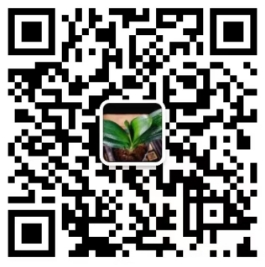
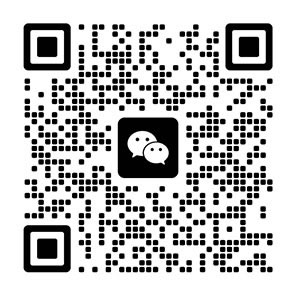
link edit

diff --git a/_includes/en_footer.html b/_includes/en_footer.html
@@ -4,47 +4,78 @@
             <div class="col-md-3">
                 <ul>
                     <li style="padding-bottom: 30px;">
-                        <a href="/"><img src="{{site.imgurl}}/assets/images/logo-1.png"  /></a>
+                        <a href="/"><img src="{{site.imgurl}}/assets/images/logo-1.png" /></a>
                     </li>
                     <li><span class="glyphicon glyphicon-phone-alt"></span>&nbsp;&nbsp;&nbsp;{{site.tel}}</li>
                     <li><span class="glyphicon glyphicon-phone-alt"></span>&nbsp;&nbsp;&nbsp;{{site.tel2}}</li>
                     <li><span class="glyphicon glyphicon-envelope"></span>&nbsp;&nbsp;&nbsp;{{site.email}}</li>
-                <ul>
-                
-                
-                
+                </ul>
+                <div class="row" style="text-align: center; margin-top: 30px;">
+                    <div class="col-md-5">
+                        <img src="{{site.imgurl}}/assets/images/erweima.jpg" class="img-thumbnail">
+                        微信
+                    </div>
+                    <div class="col-md-5">
+                        <img src="{{site.imgurl}}/assets/images/link-whatsapp.jpg" class="img-thumbnail">
+                        WhatsApp
+                    </div>
+                </div>
             </div>
             <div class="col-md-3" style="border-left: #f5f5f5 1px solid;padding-left: 80px;">
                 <ul>
                     <li class="title">GiamorProducts</li>
                     <li>
-                        <a href="{{site.baseurl}}/en/product/1.html#gaishu"><span  class="glyphicon glyphicon-play-circle"></span> Generality</a> <br>  
-                                <a href="{{site.baseurl}}/en/product/1.html#gongneng"><span  class="glyphicon glyphicon-play-circle"></span> FUNCTIONAL FABRIC</a> <br>  
-                                <a href="{{site.baseurl}}/en/product/1.html#junyong"><span  class="glyphicon glyphicon-play-circle"></span> Military special textiles</a> <br>  
-                                <a href="{{site.baseurl}}/en/product/1.html#xiaofang"><span  class="glyphicon glyphicon-play-circle"></span> Textile in the field of fire protection</a> <br>  
-                                <a href="{{site.baseurl}}/en/product/1.html#huwai"><span  class="glyphicon glyphicon-play-circle"></span> Outdoor Fabric </a> <br>
-                           
-                    </li>
-                    <li>
-                        <a href="{{site.baseurl}}/en/product/2.html#gongye"><span  class="glyphicon glyphicon-play-circle"></span> Industrial filter bag dust removal</a> <br>   
-                        <a href="{{site.baseurl}}/en/product/2.html#hepa"><span  class="glyphicon glyphicon-play-circle"></span> Efficient HEPA </a>  <br>
-                        <a href="{{site.baseurl}}/en/product/2.html#ulpa"><span  class="glyphicon glyphicon-play-circle"></span> Membrane clean window type fresh air</a><br>  
-                    </li>
-                    <li>
-                        <a href="{{site.baseurl}}/en/product/3.html#zhiqing"><span  class="glyphicon glyphicon-play-circle"></span> water electrolysis</a><br>  
-                        <a href="{{site.baseurl}}/en/product/3.html#dianchi"><span  class="glyphicon glyphicon-play-circle"></span> Hydrogen fuel cells for new energy vehicles</a><br>  
-                        <a href="{{site.baseurl}}/en/product/3.html#chuneng"><span  class="glyphicon glyphicon-play-circle"></span> Vanadium flow battery energy storage system</a><br>
-                    </li>
-                    <li>
-                        <a href="{{site.baseurl}}/en/product/4.html#guolv"><span  class="glyphicon glyphicon-play-circle"></span> BioMedem ® Biomedical Filter Membrane</a><br>  
-                        <a href="{{site.baseurl}}/en/product/4.html#fanghu"><span  class="glyphicon glyphicon-play-circle"></span> New ePTFE Medical Protective Material</a>  <br>
-                        <a href="{{site.baseurl}}/en/product/4.html#qiguan"><span  class="glyphicon glyphicon-play-circle"></span> Artificial organ</a><br>
+                        <a href="{{site.baseurl}}/en/product/1.html#gaishu"><span
+                                class="glyphicon glyphicon-play-circle"></span> Generality</a> <br>
+                        <a href="{{site.baseurl}}/en/product/1.html#gongneng"><span
+                                class="glyphicon glyphicon-play-circle"></span> FUNCTIONAL FABRIC</a> <br>
+                        <a href="{{site.baseurl}}/en/product/1.html#junyong"><span
+                                class="glyphicon glyphicon-play-circle"></span> Military special textiles</a> <br>
+                        <a href="{{site.baseurl}}/en/product/1.html#xiaofang"><span
+                                class="glyphicon glyphicon-play-circle"></span> Textile in the field of fire
+                            protection</a> <br>
+                        <a href="{{site.baseurl}}/en/product/1.html#huwai"><span
+                                class="glyphicon glyphicon-play-circle"></span> Outdoor Fabric </a> <br>
 
                     </li>
                     <li>
-                        <a href="{{site.baseurl}}/en/product/5.html#guolv"><span  class="glyphicon glyphicon-play-circle"></span> 5G Innovation </a> <br> 
-                                <a href="{{site.baseurl}}/en/product/5.html#fanghu"><span  class="glyphicon glyphicon-play-circle"></span> Electronic and Electrical</a><br>  
-                                <a href="{{site.baseurl}}/en/product/5.html#qiguan"><span  class="glyphicon glyphicon-play-circle"></span> Semiconductor Chip</a><br>
+                        <a href="{{site.baseurl}}/en/product/2.html#gongye"><span
+                                class="glyphicon glyphicon-play-circle"></span> Industrial filter bag dust removal</a>
+                        <br>
+                        <a href="{{site.baseurl}}/en/product/2.html#hepa"><span
+                                class="glyphicon glyphicon-play-circle"></span> Efficient HEPA </a> <br>
+                        <a href="{{site.baseurl}}/en/product/2.html#ulpa"><span
+                                class="glyphicon glyphicon-play-circle"></span> Membrane clean window type fresh
+                            air</a><br>
+                    </li>
+                    <li>
+                        <a href="{{site.baseurl}}/en/product/3.html#zhiqing"><span
+                                class="glyphicon glyphicon-play-circle"></span> water electrolysis</a><br>
+                        <a href="{{site.baseurl}}/en/product/3.html#dianchi"><span
+                                class="glyphicon glyphicon-play-circle"></span> Hydrogen fuel cells for new energy
+                            vehicles</a><br>
+                        <a href="{{site.baseurl}}/en/product/3.html#chuneng"><span
+                                class="glyphicon glyphicon-play-circle"></span> Vanadium flow battery energy storage
+                            system</a><br>
+                    </li>
+                    <li>
+                        <a href="{{site.baseurl}}/en/product/4.html#guolv"><span
+                                class="glyphicon glyphicon-play-circle"></span> BioMedem ® Biomedical Filter
+                            Membrane</a><br>
+                        <a href="{{site.baseurl}}/en/product/4.html#fanghu"><span
+                                class="glyphicon glyphicon-play-circle"></span> New ePTFE Medical Protective
+                            Material</a> <br>
+                        <a href="{{site.baseurl}}/en/product/4.html#qiguan"><span
+                                class="glyphicon glyphicon-play-circle"></span> Artificial organ</a><br>
+
+                    </li>
+                    <li>
+                        <a href="{{site.baseurl}}/en/product/5.html#guolv"><span
+                                class="glyphicon glyphicon-play-circle"></span> 5G Innovation </a> <br>
+                        <a href="{{site.baseurl}}/en/product/5.html#fanghu"><span
+                                class="glyphicon glyphicon-play-circle"></span> Electronic and Electrical</a><br>
+                        <a href="{{site.baseurl}}/en/product/5.html#qiguan"><span
+                                class="glyphicon glyphicon-play-circle"></span> Semiconductor Chip</a><br>
                     </li>
                 </ul>
             </div>
@@ -52,24 +83,24 @@
                 <ul>
                     <li class="title">Utillze</li>
                     <li><a href="{{site.baseurl}}/en/product/1.html#gongneng">AEROSPACE</a></li>
-                        <li><a href="{{site.baseurl}}/en/product/1.html#gaishu">Clothing fabrics</a></li>
-                        <li><a href="{{site.baseurl}}/en/product/3.html#dianchi">hydrogen energy</a></li>
-                        <li><a href="{{site.baseurl}}/en/product/3.html#zhiqing">chemistry</a></li>
-                        <li><a href="{{site.baseurl}}/en/product/4.html#gaishu">environmental protection</a></li>
-                        <li><a href="{{site.baseurl}}/en/product/1.html#xiaofang">Fire and Public Safety</a></li>
-                        <li><a href="{{site.baseurl}}/en/product/4.html#guolv">life sciences</a></li>
-                        <li><a href="{{site.baseurl}}/en/product/5.html#guolv">5G Innovation</a></li>
-                        <li><a href="{{site.baseurl}}/en/product/5.html#qiguan">Semiconductor Chip</a></li>
+                    <li><a href="{{site.baseurl}}/en/product/1.html#gaishu">Clothing fabrics</a></li>
+                    <li><a href="{{site.baseurl}}/en/product/3.html#dianchi">hydrogen energy</a></li>
+                    <li><a href="{{site.baseurl}}/en/product/3.html#zhiqing">chemistry</a></li>
+                    <li><a href="{{site.baseurl}}/en/product/4.html#gaishu">environmental protection</a></li>
+                    <li><a href="{{site.baseurl}}/en/product/1.html#xiaofang">Fire and Public Safety</a></li>
+                    <li><a href="{{site.baseurl}}/en/product/4.html#guolv">life sciences</a></li>
+                    <li><a href="{{site.baseurl}}/en/product/5.html#guolv">5G Innovation</a></li>
+                    <li><a href="{{site.baseurl}}/en/product/5.html#qiguan">Semiconductor Chip</a></li>
                 </ul>
             </div>
             <div class="col-md-2">
                 <ul>
                     <li class="title">EnteringGiamor</li>
                     <li>
-                        <a href="{{site.baseurl}}/en/about/hexinjishu.html" >core technology</a>
-                        
+                        <a href="{{site.baseurl}}/en/about/hexinjishu.html">core technology</a>
+
                     </li>
-                    
+
                     <li><a href="{{site.baseurl}}/en/about/company.html">BeiJing Giamor</a></li>
                     <li><a href="{{site.baseurl}}/en/about/lianxi.html">link</a></li>
                 </ul>
@@ -80,7 +111,9 @@
 </div>
 
 <div class="text-center" style="background-color: #f5f5f5; padding: 30px; line-height: 30px;">
-    Copyright 2014 Beijing Giamor Technology Co., LTD. All rights reserved. Beijing Giamor Environmental Protection Technology Co., Ltd
-<br>Address: 105, Building 2, Daxidi District 2, Fengtai District, Beijing Email: {{site.email}} Beijing ICP: 14012921-1
+    Copyright 2014 Beijing Giamor Technology Co., LTD. All rights reserved. Beijing Giamor Environmental Protection
+    Technology Co., Ltd
+    <br>Address: 105, Building 2, Daxidi District 2, Fengtai District, Beijing Email: {{site.email}} Beijing ICP:
+    14012921-1
 
-</div> 
+</div>

diff --git a/_includes/footer.html b/_includes/footer.html
@@ -4,47 +4,70 @@
             <div class="col-md-3">
                 <ul>
                     <li style="padding-bottom: 30px;">
-                        <a href="/"><img src="{{site.imgurl}}/assets/images/logo-1.png"  /></a>
+                        <a href="/"><img src="{{site.imgurl}}/assets/images/logo-1.png" /></a>
                     </li>
                     <li><span class="glyphicon glyphicon-phone-alt"></span>&nbsp;&nbsp;&nbsp;{{site.tel}}</li>
-                    <li><span class="glyphicon glyphicon-phone-alt"></span>&nbsp;&nbsp;&nbsp;{{site.tel2}}</li>
                     <li><span class="glyphicon glyphicon-envelope"></span>&nbsp;&nbsp;&nbsp;{{site.email}}</li>
-                <ul>
-                
-                
-                
+                    <li><span class="glyphicon glyphicon-envelope"></span>&nbsp;&nbsp;&nbsp;{{site.email2}}</li>
+                </ul>
+                <div class="row" style="text-align: center; margin-top: 30px;">
+                    <div class="col-md-5">
+                        <img src="{{site.imgurl}}/assets/images/erweima.jpg" class="img-thumbnail">
+                        微信
+                    </div>
+                    <div class="col-md-5">
+                        <img src="{{site.imgurl}}/assets/images/link-whatsapp.jpg" class="img-thumbnail">
+                        WhatsApp
+                    </div>
+                </div>
             </div>
             <div class="col-md-3" style="border-left: #f5f5f5 1px solid;padding-left: 80px;">
                 <ul>
                     <li class="title">佳膜产品</li>
                     <li>
-                            <a href="{{site.baseurl}}/product/1.html#gongneng"><span  class="glyphicon glyphicon-play-circle"></span> 功能性面料</a><br>  
-                            <a href="{{site.baseurl}}/product/1.html#junyong"><span  class="glyphicon glyphicon-play-circle"></span> 军用特种纺织</a>  <br>
-                            <a href="{{site.baseurl}}/product/1.html#xiaofang"><span  class="glyphicon glyphicon-play-circle"></span> 消防领域纺织</a>  <br>
-                            <a href="{{site.baseurl}}/product/1.html#huwai"><span  class="glyphicon glyphicon-play-circle"></span> 户外面料</a><br>
+                        <a href="{{site.baseurl}}/product/1.html#gongneng"><span
+                                class="glyphicon glyphicon-play-circle"></span> 功能性面料</a><br>
+                        <a href="{{site.baseurl}}/product/1.html#junyong"><span
+                                class="glyphicon glyphicon-play-circle"></span> 军用特种纺织</a> <br>
+                        <a href="{{site.baseurl}}/product/1.html#xiaofang"><span
+                                class="glyphicon glyphicon-play-circle"></span> 消防领域纺织</a> <br>
+                        <a href="{{site.baseurl}}/product/1.html#huwai"><span
+                                class="glyphicon glyphicon-play-circle"></span> 户外面料</a><br>
                     </li>
                     <li>
-                            <a href="{{site.baseurl}}/product/2.html#gongye"><span  class="glyphicon glyphicon-play-circle"></span> 工业滤袋试除尘</a><br>    
-                            <a href="{{site.baseurl}}/product/2.html#hepa"><span  class="glyphicon glyphicon-play-circle"></span> 高效HEPA</a>  <br>
-                            <a href="{{site.baseurl}}/product/2.html#ulpa"><span  class="glyphicon glyphicon-play-circle"></span> 膜净窗式新风</a>  <br>
+                        <a href="{{site.baseurl}}/product/2.html#gongye"><span
+                                class="glyphicon glyphicon-play-circle"></span> 工业滤袋试除尘</a><br>
+                        <a href="{{site.baseurl}}/product/2.html#hepa"><span
+                                class="glyphicon glyphicon-play-circle"></span> 高效HEPA</a> <br>
+                        <a href="{{site.baseurl}}/product/2.html#ulpa"><span
+                                class="glyphicon glyphicon-play-circle"></span> 膜净窗式新风</a> <br>
                     </li>
                     <li>
-                            <a href="{{site.baseurl}}/product/3.html#zhiqing"><span  class="glyphicon glyphicon-play-circle"></span> 电解水制氢</a>  <br>
-                            <a href="{{site.baseurl}}/product/3.html#dianchi"><span  class="glyphicon glyphicon-play-circle"></span> 新能源汽车氢燃料电池</a><br>  
-                            <a href="{{site.baseurl}}/product/3.html#chuneng"><span  class="glyphicon glyphicon-play-circle"></span> 全钒液流电池储能系统</a><br>
+                        <a href="{{site.baseurl}}/product/3.html#zhiqing"><span
+                                class="glyphicon glyphicon-play-circle"></span> 电解水制氢</a> <br>
+                        <a href="{{site.baseurl}}/product/3.html#dianchi"><span
+                                class="glyphicon glyphicon-play-circle"></span> 新能源汽车氢燃料电池</a><br>
+                        <a href="{{site.baseurl}}/product/3.html#chuneng"><span
+                                class="glyphicon glyphicon-play-circle"></span> 全钒液流电池储能系统</a><br>
                     </li>
                     <li>
-                            <a href="{{site.baseurl}}/product/4.html#qiguan"><span  class="glyphicon glyphicon-play-circle"></span> 人造器官</a>  <br>
-                            <a href="{{site.baseurl}}/product/4.html#guolv"><span  class="glyphicon glyphicon-play-circle"></span> 生物过滤</a>  <br>
-                            <a href="{{site.baseurl}}/product/4.html#fanghu"><span  class="glyphicon glyphicon-play-circle"></span> 医疗防护</a> <br> 
+                        <a href="{{site.baseurl}}/product/4.html#qiguan"><span
+                                class="glyphicon glyphicon-play-circle"></span> 人造器官</a> <br>
+                        <a href="{{site.baseurl}}/product/4.html#guolv"><span
+                                class="glyphicon glyphicon-play-circle"></span> 生物过滤</a> <br>
+                        <a href="{{site.baseurl}}/product/4.html#fanghu"><span
+                                class="glyphicon glyphicon-play-circle"></span> 医疗防护</a> <br>
 
                     </li>
                     <li>
-                        <a href="{{site.baseurl}}/product/5.html#guolv"><span  class="glyphicon glyphicon-play-circle"></span> 5G创新</a><br>  
-                        <a href="{{site.baseurl}}/product/5.html#fanghu"><span  class="glyphicon glyphicon-play-circle"></span> 电子电气</a> <br> 
-                        <a href="{{site.baseurl}}/product/5.html#qiguan"><span  class="glyphicon glyphicon-play-circle"></span> 芯片</a><br>
+                        <a href="{{site.baseurl}}/product/5.html#guolv"><span
+                                class="glyphicon glyphicon-play-circle"></span> 5G创新</a><br>
+                        <a href="{{site.baseurl}}/product/5.html#fanghu"><span
+                                class="glyphicon glyphicon-play-circle"></span> 电子电气</a> <br>
+                        <a href="{{site.baseurl}}/product/5.html#qiguan"><span
+                                class="glyphicon glyphicon-play-circle"></span> 芯片</a><br>
                     </li>
-                    
+
                 </ul>
             </div>
             <div class="col-md-2">
@@ -65,10 +88,10 @@
                 <ul>
                     <li class="title">走进佳膜</li>
                     <li>
-                        <a href="{{site.baseurl}}/about/hexinjishu.html" >核心技术</a>
-                        
+                        <a href="{{site.baseurl}}/about/hexinjishu.html">核心技术</a>
+
                     </li>
-                    
+
                     <li><a href="{{site.baseurl}}/about/company.html">走进佳膜</a></li>
                     <li><a href="{{site.baseurl}}/about/lianxi.html">联系</a></li>
                 </ul>
@@ -80,6 +103,6 @@
 
 <div class="text-center" style="background-color: #f5f5f5; padding: 30px; line-height: 30px;">
     Copyright 2014 Beijing Giamor Technologie Co.,LTD. 版权所有 北京佳膜环保科技有限公司<br>
-    地址：{{site.address}}     邮箱: {{site.email}}   京ICP备: 14012921号-1
+    地址：{{site.address}} 邮箱: {{site.email}} 京ICP备: 14012921号-1
 
-</div> 
+</div>

diff --git a/_includes/link.html b/_includes/link.html
@@ -9,8 +9,11 @@
     </div>
     <div style="background-color:#343434;">
         <span class="glyphicon glyphicon-qrcode"></span>
-        <div style="position: absolute; background-color: #343434; top:110px;right: 55px;width:200px;height:200px;display: none;padding:10px">
+        <div style="font-size: 14px;line-height: 35px;position: absolute; background-color: #343434; top:110px;right: 55px;width:150px;height:340px;display: none;padding:10px">
             <img src="{{site.imgurl}}/assets/images/erweima.jpg" class="img-thumbnail" >
+            微信
+            <img src="{{site.imgurl}}/assets/images/link-whatsapp.jpg" class="img-thumbnail" >
+            WhatsApp
         </div>
     </div>
 </div>

diff --git a/_layouts/index.html b/_layouts/index.html
@@ -71,9 +71,10 @@
         </a>
       </div>
       <div class="item">
-        <a href="{{site.baseurl}}/product/2.html#gaishu" target="_blank"></a><img src="{{site.imgurl}}/assets/images/silder/02.jpg" alt="...">
+        <a href="{{site.baseurl}}/product/2.html#gaishu" target="_blank">
+        <img src="{{site.imgurl}}/assets/images/silder/02.jpg" alt="...">
         <div class="carousel-caption">
-            {{site.company}}
+          {{site.company}}
         </div></a>
       </div>
       <div class="item">

diff --git a/_layouts/en_index.html b/_layouts/en_index.html
@@ -71,7 +71,7 @@
         </a>
       </div>
       <div class="item">
-        <a href="{{site.baseurl}}/en/product/2.html#gaishu" target="_blank"></a>
+        <a href="{{site.baseurl}}/en/product/2.html#gaishu" target="_blank">
         <img src="{{site.imgurl}}/assets/images/silder/en/02.jpg" alt="...">
         <div class="carousel-caption">
             {{site.encompany}}

diff --git a/en/about/lianxi.md b/en/about/lianxi.md
@@ -4,5 +4,5 @@ id: 11
 title: link
 category: about us
 pic: 
-detail: <p><br>contact us<br>Beijing Jiamo Environmental Protection Technology Co., Ltd<br>Customer Service Hotline:400-850-5815<br>Fixed telephone:010-67722766105, Building 2, Daxidi District 2, Fengtai District, Beijing</p><p style="padding:300px 0 0 0"></p>
+detail: <p><br>Contact us<br>Beijing Jiamo Environmental Protection Technology Co., Ltd<br>Contact number：186 1189 8868<br>Email：l.zhang@giamor-tech.com<br>Email：mabelzhang21@gmail.com<br>Address： Building 2, Daxidi District 2, Fengtai District, Beijing</p><p style="padding:300px 0 0 0"></p>
 ---

diff --git a/_about/lianxi.md b/_about/lianxi.md
@@ -4,5 +4,5 @@ id: 11
 title: 联系我们
 category: 关于我们
 pic: 
-detail:  <p>北京佳膜环保科技有限公司<br><br>客服热线：400-850-5815<br><br>固定电话：010-67722766<br><br>北京市丰台区大溪地二区二号楼105</P><p style="padding:300px 0 0 0"></p>
+detail:  <p>北京佳膜环保科技有限公司<br><br>联系电话：186 1189 8868<br><br>邮件：l.zhang@giamor-tech.com<br><br>邮件：mabelzhang21@gmail.com<br><br>北京市丰台区大溪地二区二号楼105</P><p style="padding:300px 0 0 0"></p>
 ---
